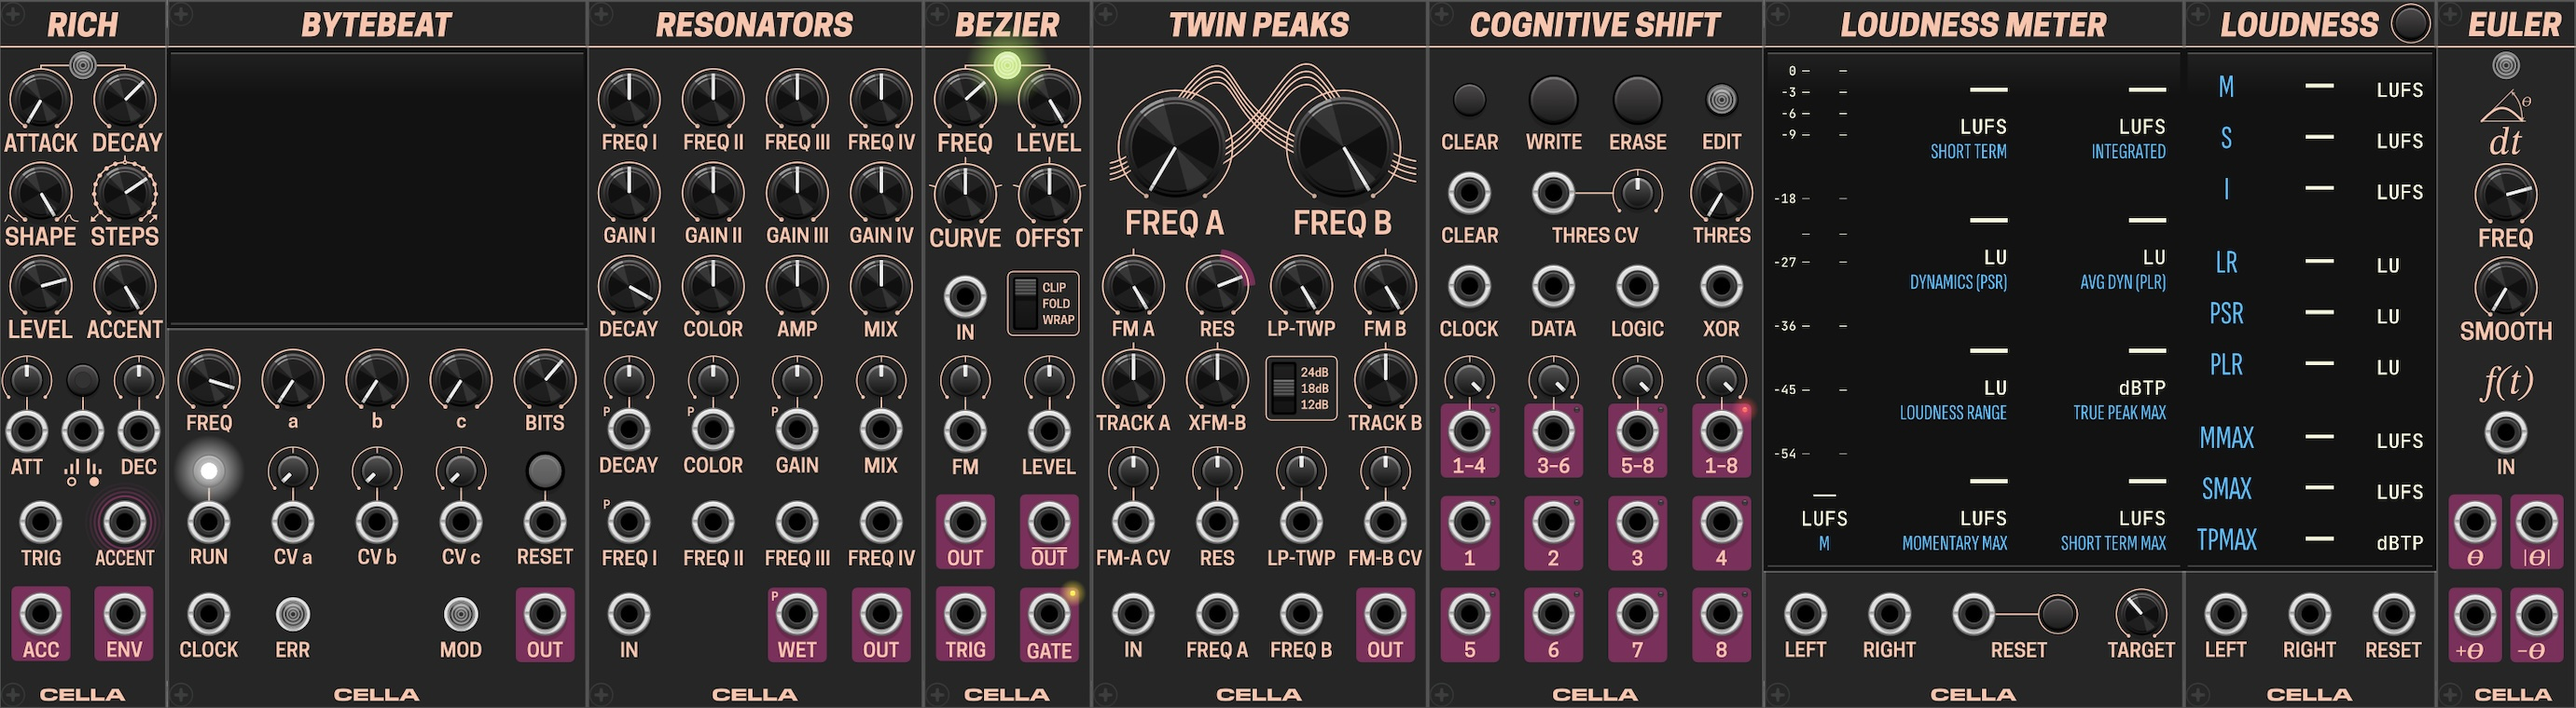
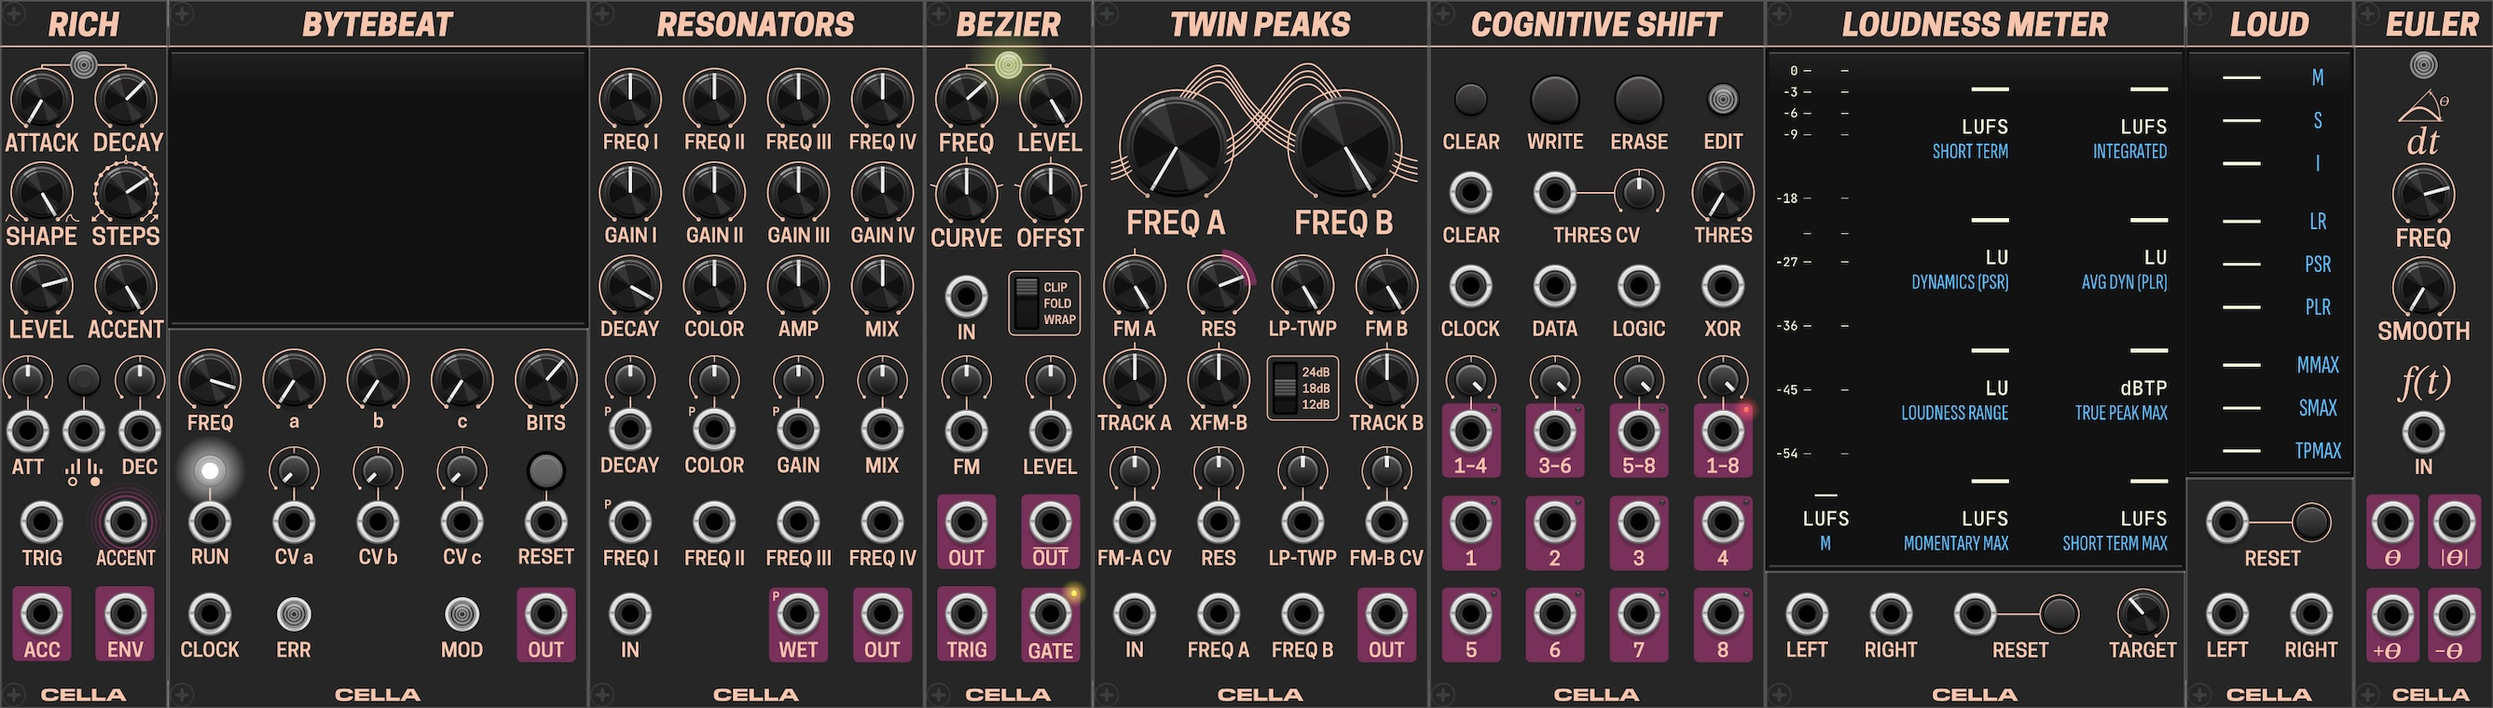
Update readme and documentation

diff --git a/docs/Cella_Manual.md b/docs/Cella_Manual.md
@@ -1,6 +1,6 @@
 # Cella – User Manual
 
-# Version 2.0.7
+# Version 2.8.0
 
 # **LICENSE**
 
@@ -164,9 +164,9 @@ Parameter **SMOOTH** applies smoothing over a set time period – up to 1 second
 
 <img src="images/Resonators.png" alt="Cella - Resonators" style="height: 380px;">
 
-[**Resonators Demo (YouTube)**](https://www.youtube.com/watch?v=gn_RQxh0R7A)
+[Resonators DEMO (YouTube)](https://www.youtube.com/watch?v=gn_RQxh0R7A)
 
-[**Resonators demo by Omri Cohen (YouTube)**](https://www.youtube.com/watch?v=IwO37pXGd5A)
+[Resonators DEMO by Omri Cohen (YouTube)](https://www.youtube.com/watch?v=IwO37pXGd5A)
 
 **Resonators** is a module that features four pitched resonators based on the Karplus-Strong algorithm. It is designed to create rich, resonant sounds by simulating the behavior of plucked strings or other resonant bodies. Functionality is inspired by audio effect of the same name found in the popular DAW.
 
@@ -250,6 +250,8 @@ Taken from [here](http://viznut.fi/demos/unix/bytebeat_formulas.txt)
 # **Cognitive Shift**
 
 <img src="images/CognitiveShift.png" alt="Cella - Cognitive Shift" style="height: 380px;">
+
+[Cognitive Shift DEMO (YouTube)](https://www.youtube.com/watch?v=w_rUmVgKfsE)
 
 Cognitive Shift is an advanced 8-bit digital shift register module for VCV Rack. It goes beyond basic shift register functionality by incorporating flexible input logic (including XOR and selectable logic operations), manual data overrides, data edit mode, three overlapping unipolar 4-bit DAC outputs, a bipolar/unipolar 8-bit DAC output, and configurable gate output modes. It also features intelligent self-patching detection to facilitate complex feedback patterns.
 
@@ -372,27 +374,27 @@ Inputs expect standard VCV Rack +/- 10V signals, which are scaled internally to 
 
 *   **Reset**: Resets all integrated, maximum, and historical measurements when a trigger signal (rising edge, typically > 1V) is received.
 
-*   **Audio L / Mono**: Left channel audio input. Serves as the primary input for mono signals or the left channel of a stereo pair.
-*   **Audio R**: Right channel audio input. Used for the right channel of a stereo pair.
+*   **LEFT**: Left channel audio input. Serves as the primary input for mono signals or the left channel of a stereo pair.
+*   **RIGHT**: Right channel audio input. Used for the right channel of a stereo pair.
 
 **Input Interpretation & Processing Mode:**
 
 The way the connected audio inputs are interpreted and processed depends on the **Processing mode** selected in the module's context menu:
 
 *   **Auto (Default):** This mode automatically adapts to the connections.
-    *   If *only* 'Audio L' or *only* 'Audio R' is connected, the signal is processed as **mono**.
-    *   If *both* 'Audio L' and 'Audio R' are connected, the signal is processed as **stereo**.
+    *   If *only* 'LEFT' or *only* 'RIGHT' is connected, the signal is processed as **mono**.
+    *   If *both* 'LEFT' and 'RIGHT' are connected, the signal is processed as **stereo**.
 
 *   **Mono:** This mode forces the processing to be **mono**, regardless of input connections.
-    *   If *both* 'Audio L' and 'Audio R' are connected, they are mixed down to mono before processing.
-    *   If *only* 'Audio L' or *only* 'Audio R' is connected, that single input is used directly as the mono source.
+    *   If *both* 'LEFT' and 'RIGHT' are connected, they are mixed down to mono before processing.
+    *   If *only* 'LEFT' or *only* 'RIGHT' is connected, that single input is used directly as the mono source.
 
 *   **Stereo:** This mode forces the processing to be **stereo**, regardless of input connections.
-    *   If *both* 'Audio L' and 'Audio R' are connected, they are processed as a standard stereo pair.
-    *   If *only* 'Audio L' is connected, its signal is duplicated to both the left and right channels for stereo processing.
-    *   If *only* 'Audio R' is connected, *its* signal is duplicated to both the left and right channels for stereo processing.
+    *   If *both* 'LEFT' and 'RIGHT' are connected, they are processed as a standard stereo pair.
+    *   If *only* 'LEFT' is connected, its signal is duplicated to both the left and right channels for stereo processing.
+    *   If *only* 'RIGHT' is connected, *its* signal is duplicated to both the left and right channels for stereo processing.
 
-**Why Mode Matters:** The selected mode directly influences the final loudness value. Because the ITU-R BS.1770 standard sums the energy from both channels for stereo analysis (but only uses the single channel for mono), processing the same audio signal in 'Stereo' mode will typically result in a reading approximately 3 LUFS higher than processing it in 'Mono' mode.
+**Why Mode Matters:** The selected mode directly influences the final loudness value. Because the ITU-R BS.1770 standard sums the energy from both channels for stereo analysis (but only uses the single channel for mono), processing the same mono audio signal in 'Stereo' mode will typically result in a reading approximately 3 LUFS higher than processing it in 'Mono' mode. For uncorrelated stereo signal that difference might be higher or lower.
 
 ## Controls
 
@@ -405,9 +407,9 @@ The module features a large display area showing several loudness metrics:
 
 1.  **Momentary Loudness (M) Bar**: Displays the momentary loudness (measured over a 400ms window) as a vertical bar graph. The bar is white up to the **Target Loudness** value and turns red above it. Small bracket indicates the current **Loudness Range**.
 
-2.  **SHORT TERM**: Displays the short-term loudness (measured over a 3s window). Calculation can be disabled via the context menu.
+2.  **SHORT TERM (S)**: Displays the short-term loudness (measured over a 3s window). Calculation can be disabled via the context menu.
 
-3.  **INTEGRATED**: Displays the integrated loudness (overall program loudness) calculated since the last reset. This value is saved and restored with the patch.
+3.  **INTEGRATED (I)**: Displays the integrated loudness (overall program loudness) calculated since the last reset. This value is saved and restored with the patch.
 
 4.  **DYNAMICS (PSR)**: Displays the Peak to Short-term Loudness Ratio (PSR). This is the difference between the *sliding maximum true peak* (measured over the last ~2.5 seconds) and the current *short-term loudness*. Provides an indication of recent dynamic range.
 
@@ -415,11 +417,11 @@ The module features a large display area showing several loudness metrics:
 
 6.  **LOUDNESS RANGE (LRA)**: Displays the statistical loudness range, indicating the variation in loudness throughout the measurement period (since the last reset).
 
-7.  **MOMENTARY MAX**: Displays the maximum momentary loudness level recorded since the last reset.
+7.  **MOMENTARY MAX (MMAX)**: Displays the maximum momentary loudness level recorded since the last reset.
 
-8.  **SHORT TERM MAX**: Displays the maximum short-term loudness level recorded since the last reset.
+8.  **SHORT TERM MAX (SMAX)**: Displays the maximum short-term loudness level recorded since the last reset.
 
-9.  **TRUE PEAK MAX**: Displays the maximum true peak level (accounting for inter-sample peaks) recorded on either channel since the last reset. The value turns red if it exceeds -0.5 dBTP, indicating potential clipping after D/A conversion.
+9.  **TRUE PEAK MAX (TPMAX)**: Displays the maximum true peak level (accounting for inter-sample peaks) recorded on either channel since the last reset. The value turns red if it exceeds -0.5 dBTP, indicating potential clipping after D/A conversion.
 
 ## Context Menu
 

diff --git a/README.md b/README.md
@@ -38,6 +38,8 @@ Under the hood, the module uses the DSP core from Audible Instruments' Liquid Fi
 
 Main differentiator from other implementations is the ability to output triggers or gates per each step without merging consecutive gates together, and yet allow for self-patching.
 
+[YOUTUBE: Cella - Cognitive Shift DEMO](https://www.youtube.com/watch?v=w_rUmVgKfsE)
+
 ### Loudness Meter
 
 **Loudness Meter** and its narrow version **Loud** are a comprehensive audio loudness meters based on the EBU R128 standard, utilizing the [libebur128](https://github.com/jiixyj/libebur128) library for accurate measurements.

diff --git a/CHANGELOG.md b/CHANGELOG.md
@@ -1,10 +1,9 @@
 # Cella modules changelog
 
-### 2.8.0 (2025-04-25)
+### 2.8.0 (2025-04-27)
 
 New modules:
-* Loudness and Loudness Meter - comprehensive loudness meters based on the EBU R128 standard
-
+* Loudness Meter and Loud - comprehensive loudness meters based on the EBU R128 standard
 
 ### 2.0.7 (2025-04-12)
 
